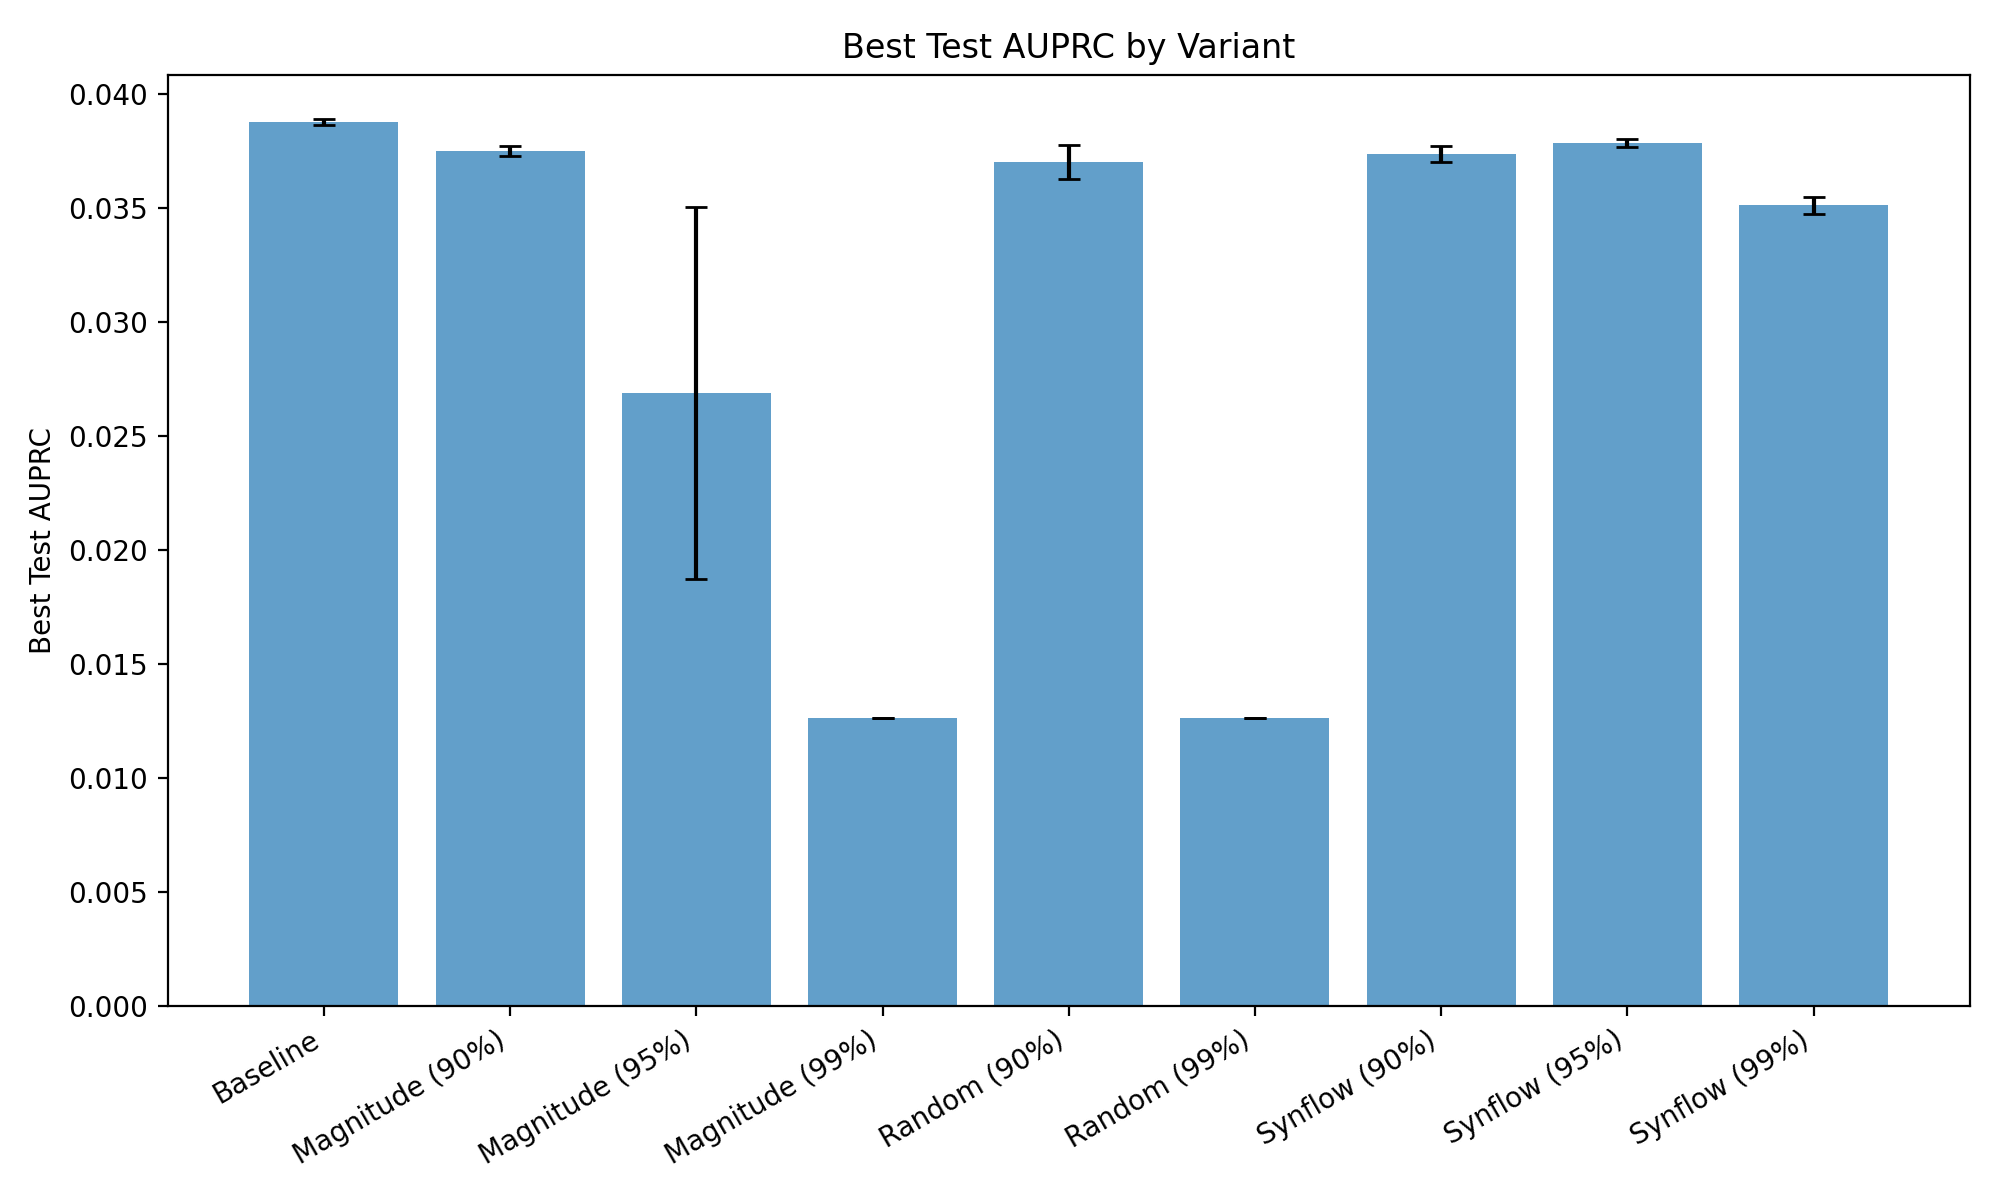
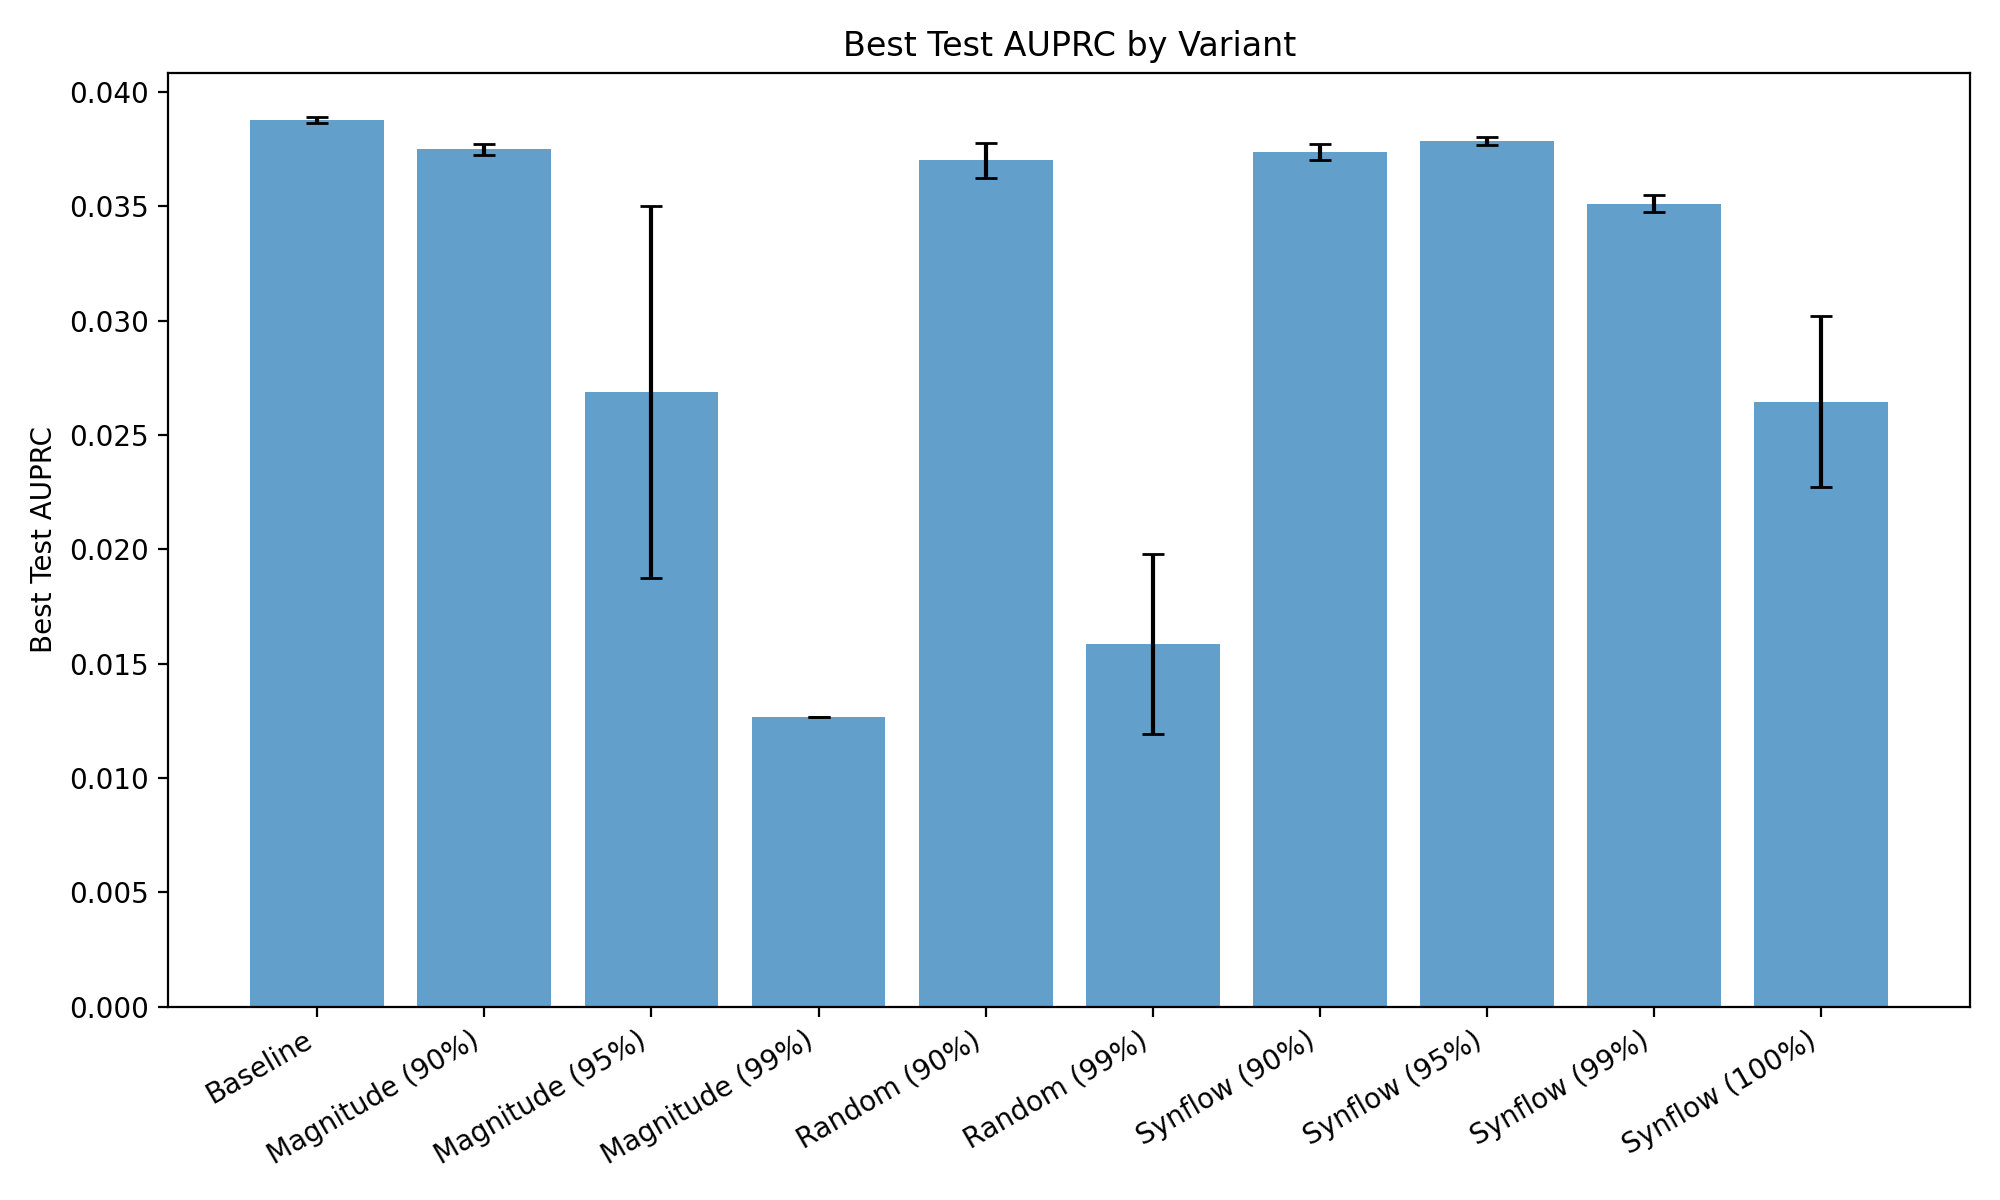
added synflow 99.9 sparsity experiment

diff --git a/results/aggregated_results.md b/results/aggregated_results.md
@@ -5,7 +5,8 @@
 | pruned_magnitude | heuristic | 0.95 | 0.0269 ± 0.0082 | 0.6791 ± 0.0900 | 0.0262 ± 0.0024 | 37505 | 7.518e+09 | 5 |
 | pruned_magnitude | heuristic | 0.99 | 0.0127 ± 0.0000 | 0.5000 ± 0.0000 | 0.0250 ± 0.0000 | 37505 | 2.004e+09 | 5 |
 | pruned_random | heuristic | 0.90 | 0.0370 ± 0.0008 | 0.7566 ± 0.0033 | 0.0344 ± 0.0002 | 37505 | 1.441e+10 | 5 |
-| pruned_random | heuristic | 0.99 | 0.0127 ± 0.0000 | 0.5000 ± 0.0000 | 0.0250 ± 0.0000 | 37505 | 2.004e+09 | 1 |
+| pruned_random | heuristic | 0.99 | 0.0159 ± 0.0039 | 0.5439 ± 0.0500 | 0.0250 ± 0.0000 | 37505 | 2.004e+09 | 3 |
 | pruned_synflow | heuristic | 0.90 | 0.0374 ± 0.0004 | 0.7582 ± 0.0007 | 0.0350 ± 0.0004 | 37505 | 1.441e+10 | 5 |
 | pruned_synflow | heuristic | 0.95 | 0.0379 ± 0.0002 | 0.7605 ± 0.0010 | 0.0350 ± 0.0004 | 37505 | 7.518e+09 | 5 |
 | pruned_synflow | heuristic | 0.99 | 0.0351 ± 0.0004 | 0.7515 ± 0.0013 | 0.0342 ± 0.0010 | 37505 | 2.004e+09 | 5 |
+| pruned_synflow | heuristic | 1.00 | 0.0265 ± 0.0037 | 0.7100 ± 0.0130 | 0.0269 ± 0.0024 | 37505 | 7.643e+08 | 5 |
